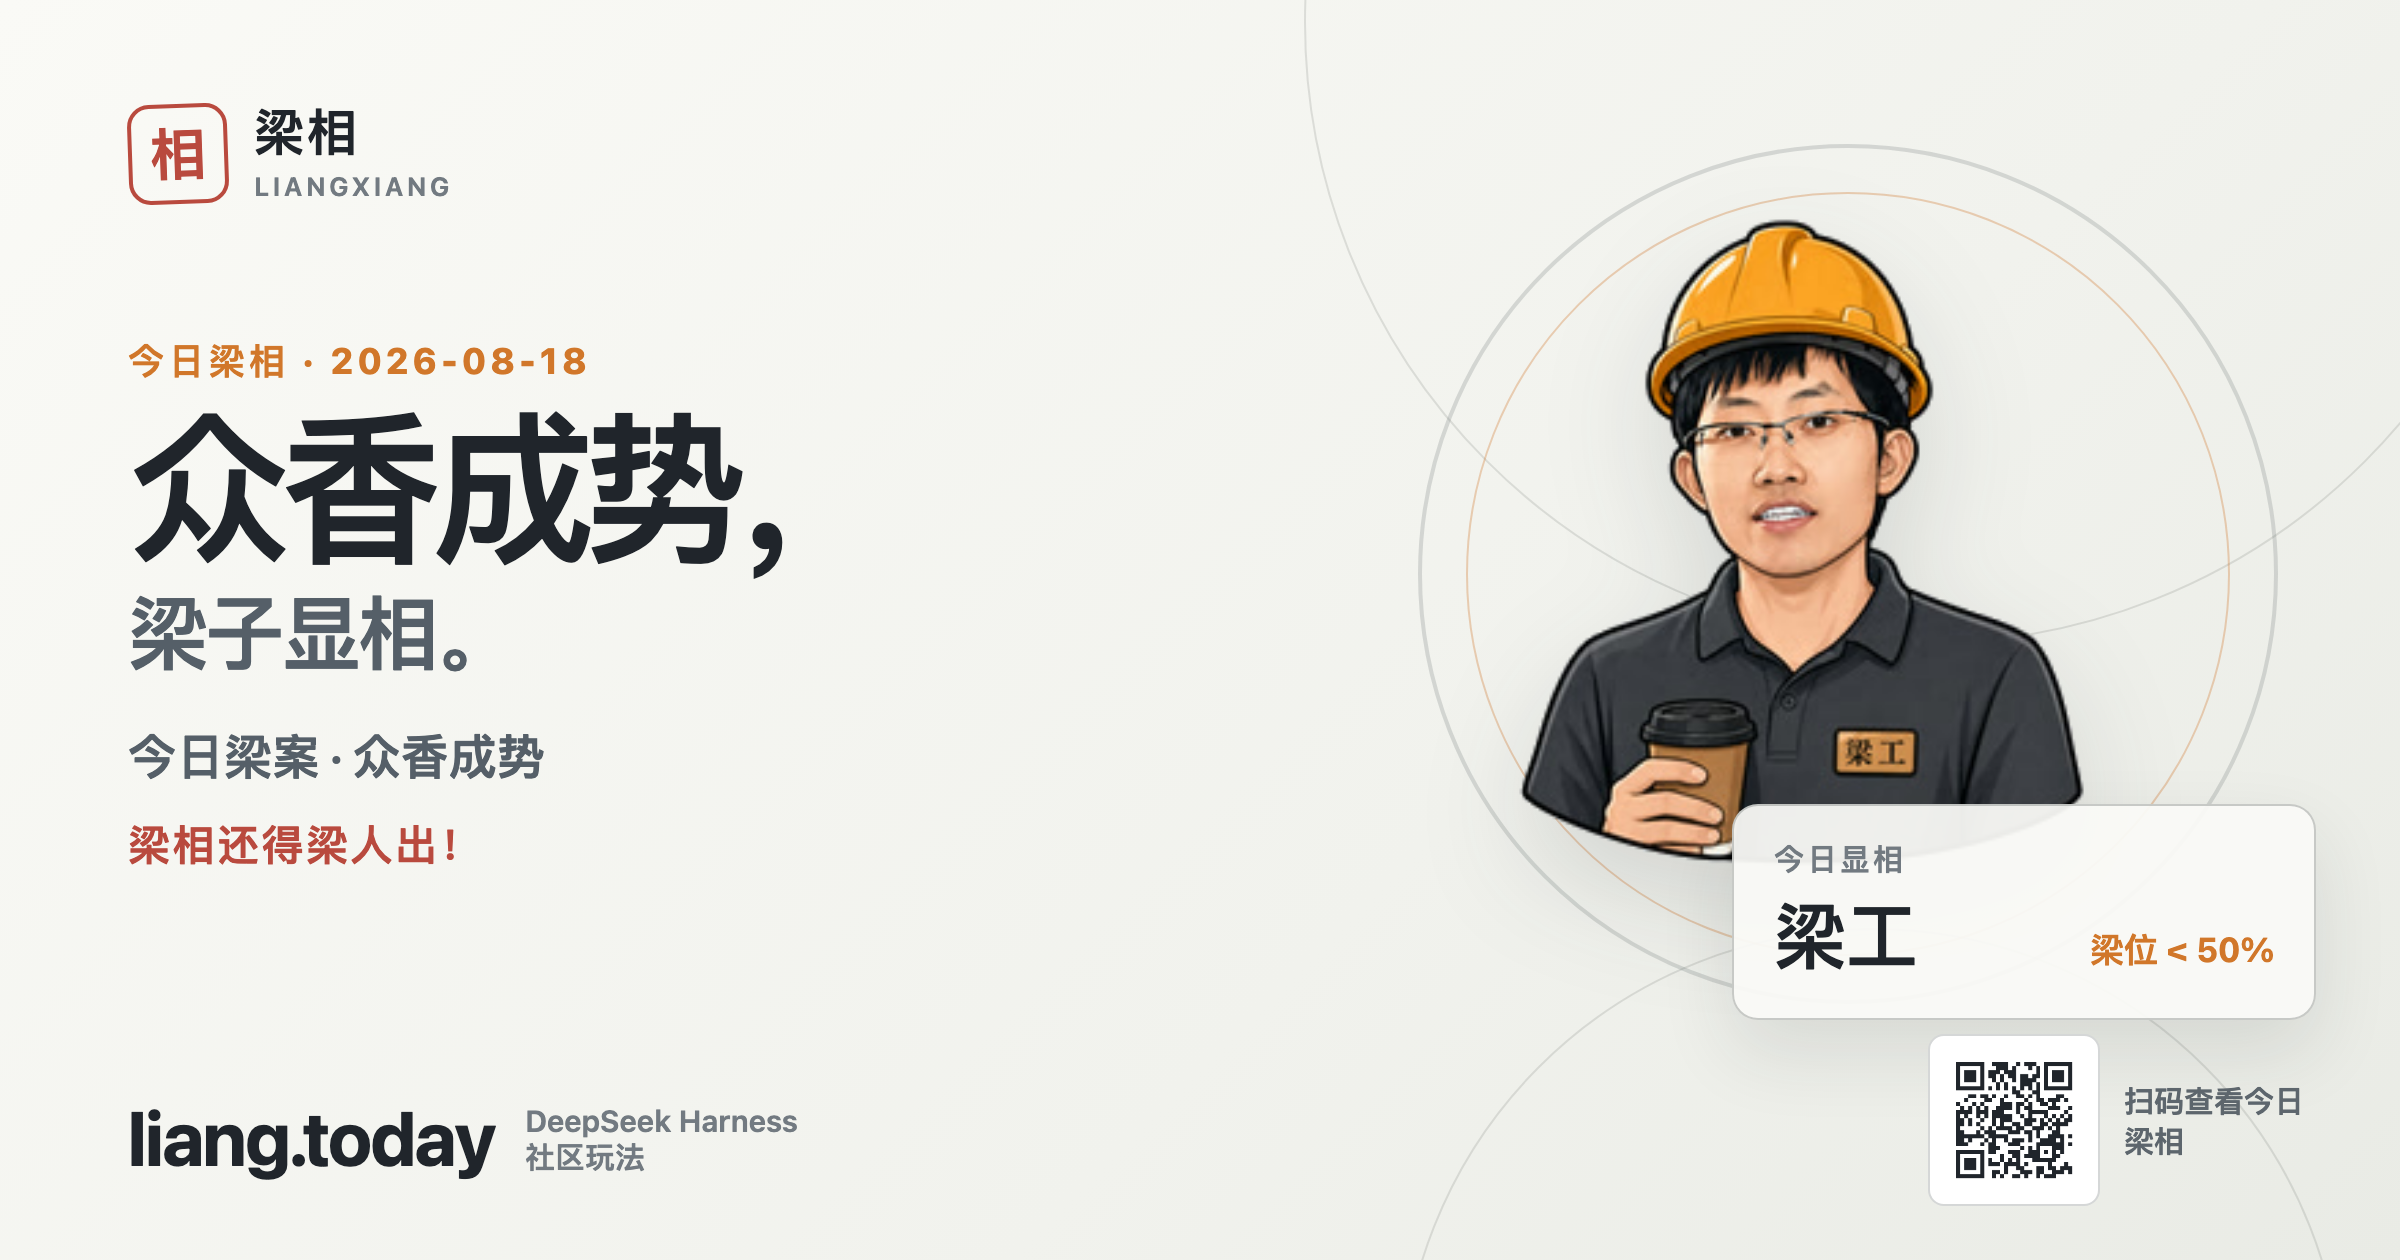
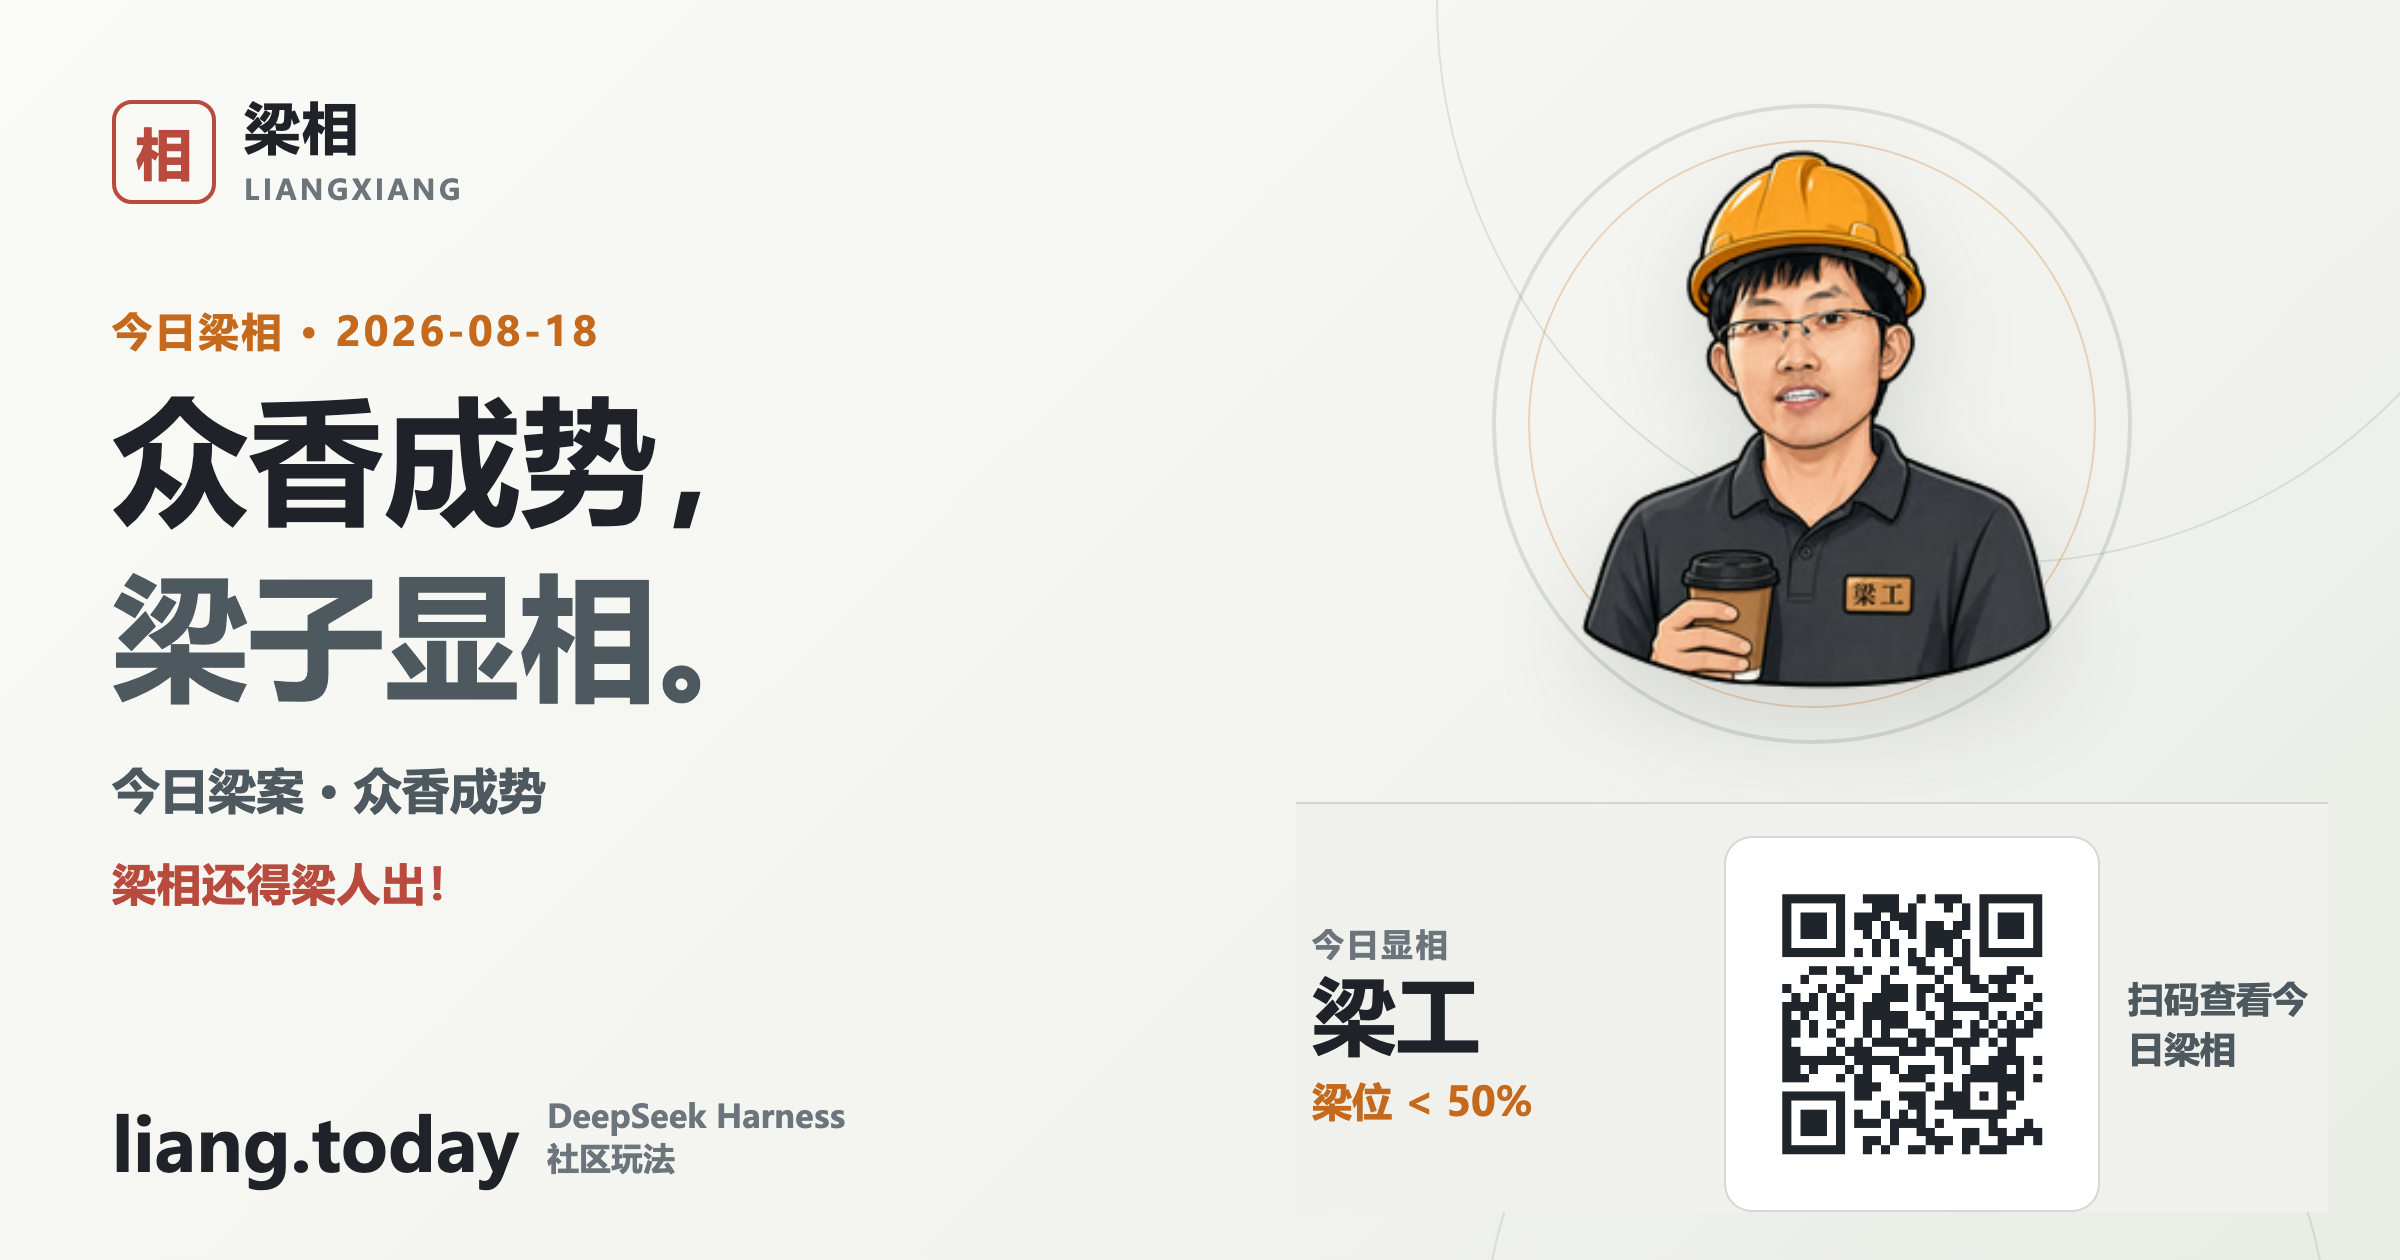
docs: flatten page nav and rebuild the social card
Keep the three site pages as direct links, move today's state off the Liangzi portrait, enlarge the QR code, and render cards with Microsoft YaHei when it is available locally.

diff --git a/src/styles/global.css b/src/styles/global.css
@@ -270,9 +270,20 @@ input {
   transition: color 140ms ease, background 140ms ease;
 }
 
-.nav-menu a:hover {
+.nav-menu a:hover,
+.nav-link:hover {
   color: var(--text);
   background: var(--bg-subtle);
+}
+
+.nav-link {
+  padding: 7px 12px;
+  border-radius: 7px;
+  color: var(--text-soft);
+  font-size: 14px;
+  white-space: nowrap;
+  text-decoration: none;
+  transition: color 140ms ease, background 140ms ease;
 }
 
 .header-actions {
@@ -2128,7 +2139,8 @@ input {
     overflow: visible;
   }
 
-  .nav-menu summary {
+  .nav-menu summary,
+  .nav-link {
     padding-inline: 8px;
     white-space: nowrap;
   }
@@ -2297,7 +2309,8 @@ input {
 }
 
 @media (max-width: 470px) {
-  .nav-menu summary {
+  .nav-menu summary,
+  .nav-link {
     padding-inline: 6px;
     font-size: 13px;
   }

diff --git a/src/pages/privacy/index.md b/src/pages/privacy/index.md
@@ -2,7 +2,7 @@
 layout: ../../layouts/MarkdownLayout.astro
 title: 隐私与边界
 description: 梁相如何保护对话内容、处理必要计数，以及社区玩法当前的信任边界。
-eyebrow: 隐私与边界
+eyebrow: 隐私边界
 aside: 只传玩法所需的计数，不传对话、代码与文件内容。
 sections:
   - href: '#private'
